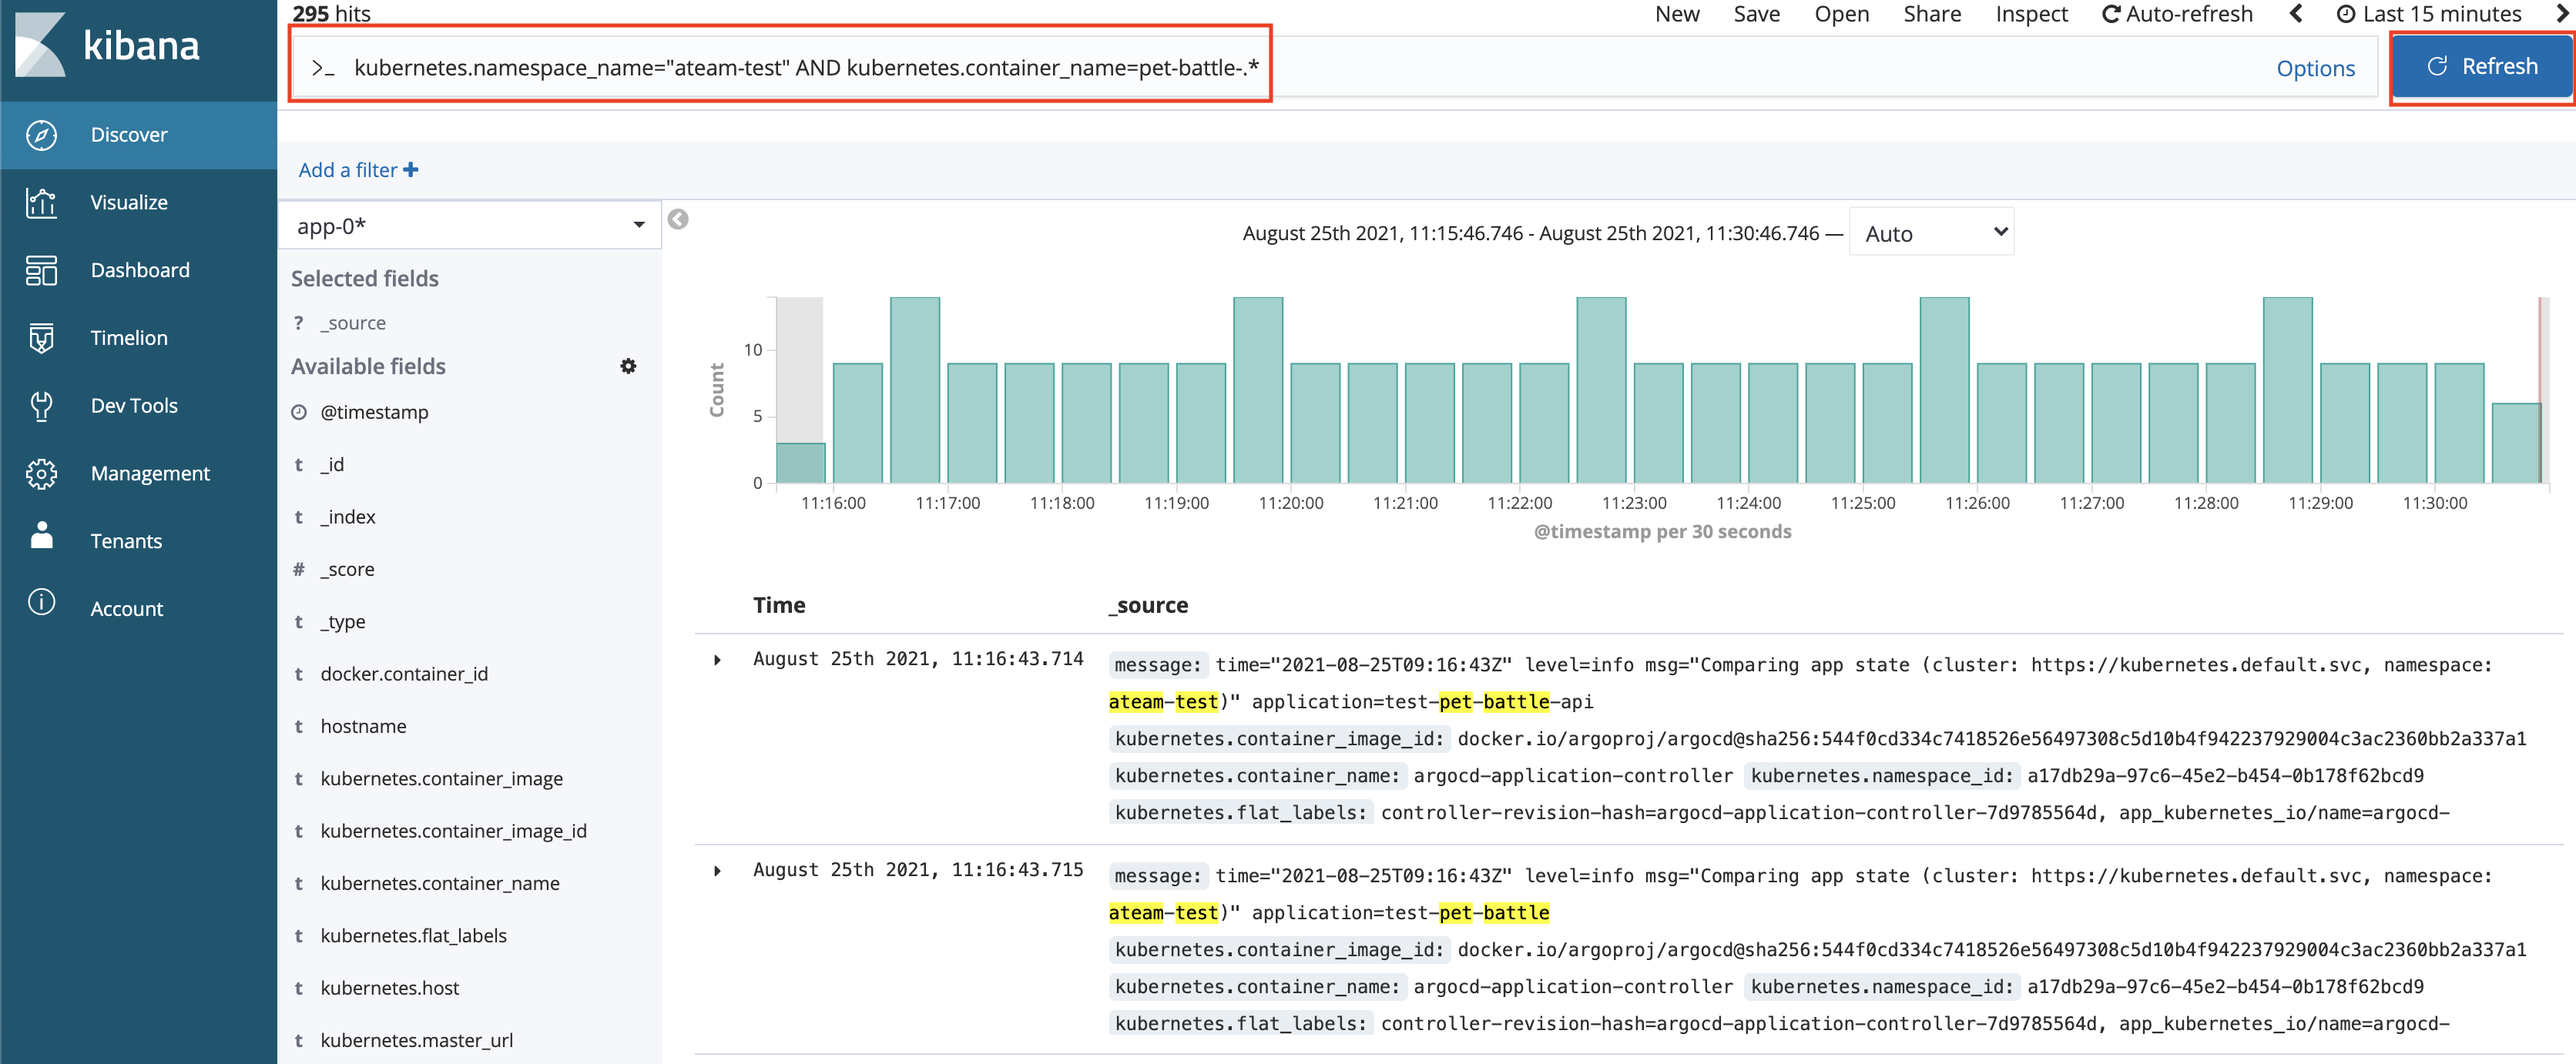
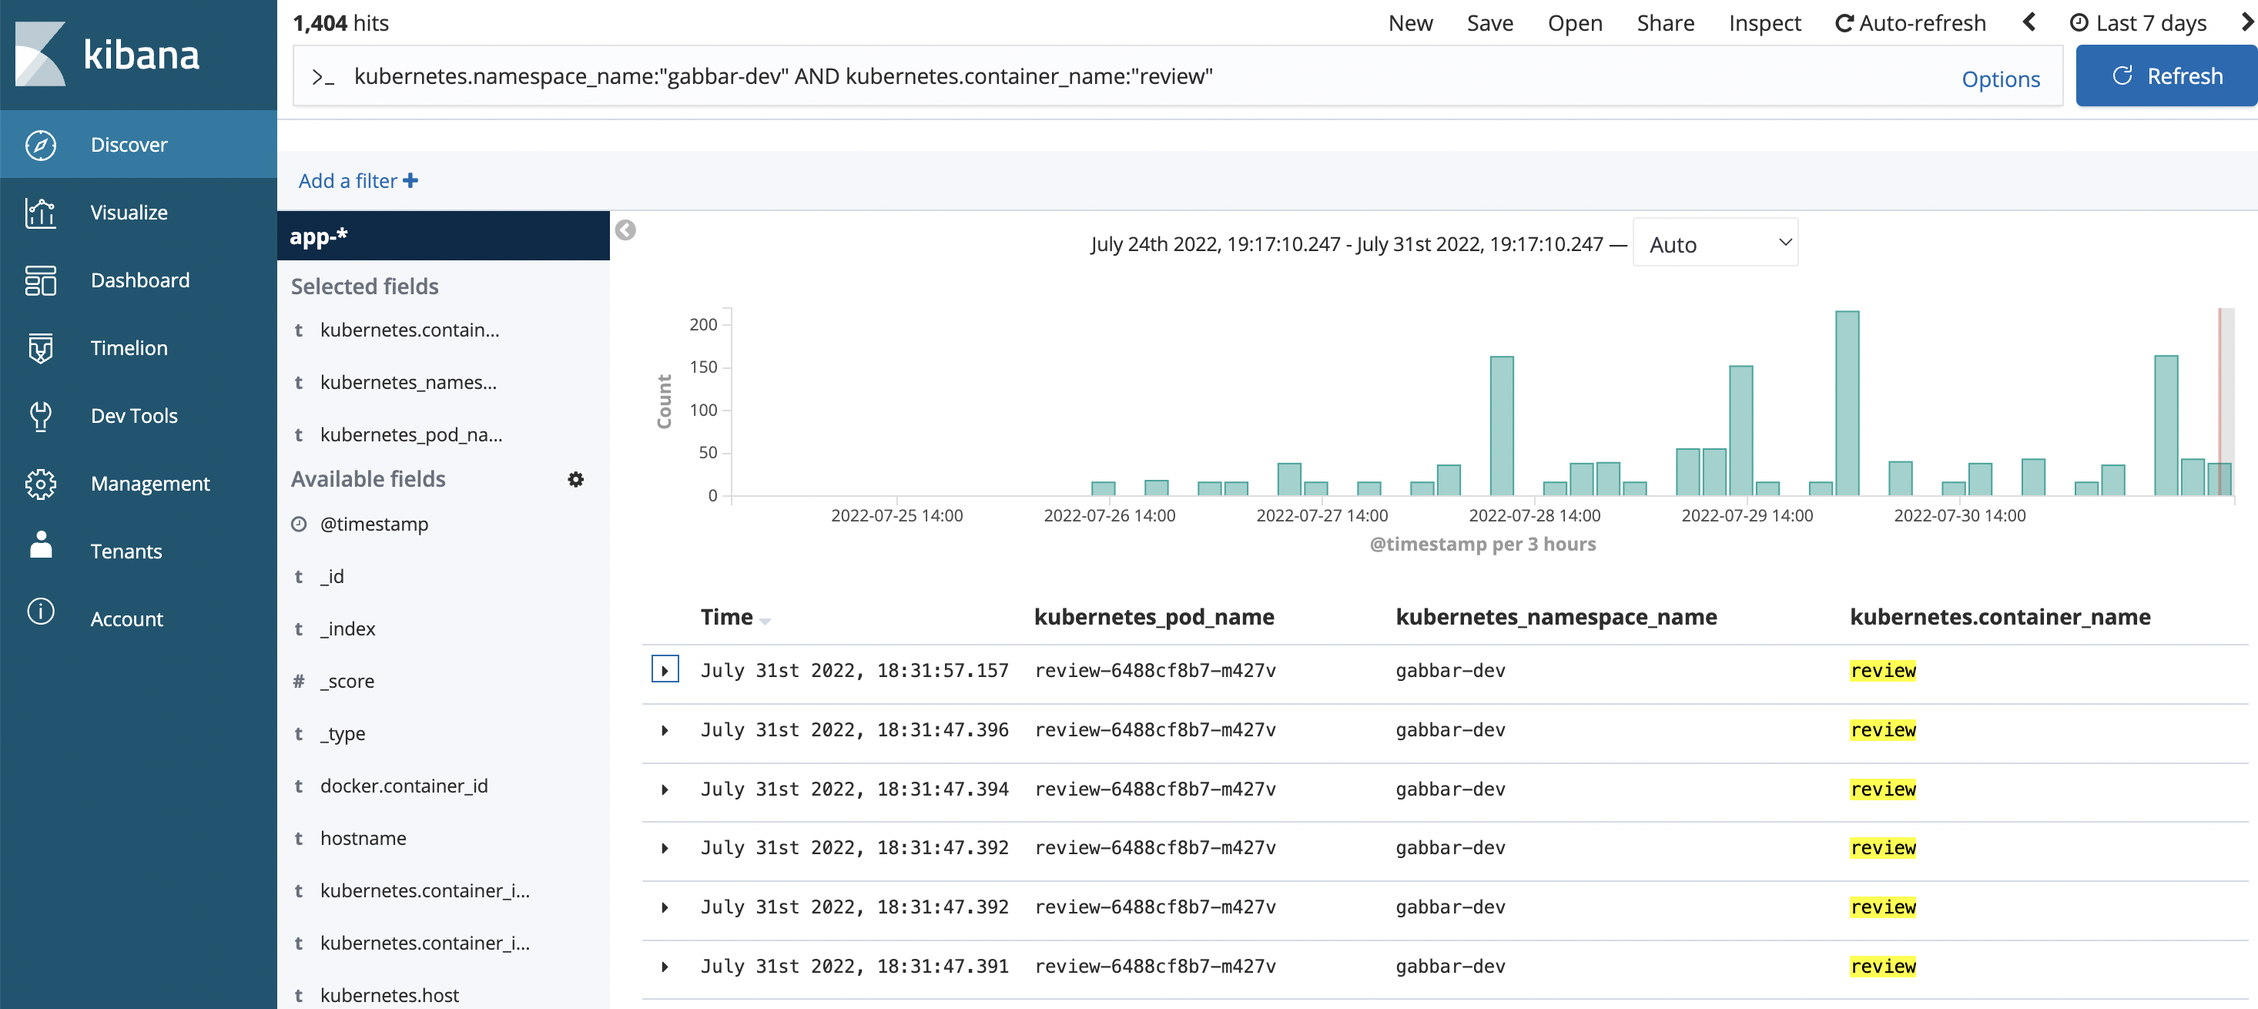
Update logging section

diff --git a/docs/4-return-of-the-monitoring/3-logging.md b/docs/4-return-of-the-monitoring/3-logging.md
@@ -1,23 +1,23 @@
 ## Aggregated Logging
 
-> OpenShift's built in logging .... Something something installed operator before hand. Very memory intensive, logging can be deployed to the infra plane though...
+> SAAP's built in logging .... Something something installed operator before hand. Very memory intensive, logging is deployed to the infra nodes
 
 1. Observe logs from any given container:
 
     ```bash
-    oc project ${TEAM_NAME}-test
-    oc logs `oc get po -l app.kubernetes.io/component=mongodb -o name -n ${TEAM_NAME}-test` --since 10m
+    oc project ${TENANT_NAME}-dev
+    oc logs `oc get po -l app.kubernetes.io/component=mongodb -o name -n ${TENANT_NAME}-dev` --since 10m
     ```
 
     By default, these logs are not stored in a database, but there are a number of reasons to store them (ie troubleshooting, legal obligations..)
 
-2. OpenShift magic provides a great way to collect logs across services, anything that's pumped to `STDOUT` or `STDERR` is collected by FluentD and added to Elastic Search. This makes indexing and querrying logs very easy. Kibana is added on top for easy visualisation of the data. Let's take a look at Kibana now.
+2. SAAP magic provides a great way to collect logs across services, anything that's pumped to `STDOUT` or `STDERR` is collected by FluentD and added to Elastic Search. This makes indexing and querrying logs very easy. Kibana is added on top for easy visualisation of the data. Let's take a look at Kibana now. Back to forecastle
 
-    ```bash
-    https://kibana-openshift-logging.<CLUSTER_DOMAIN>
-    ```
+    ![forecastle-kibana](./images/forecastle-kibana.png)
 
 3. Login using your standard credentials. On first login you'll need to `Allow selected permissions` for OpenShift to pull your permissions.
+
+    ![kibana-authorize-access](./images/kibana-authorize-access.png)
 
 4. Once logged in, you'll be prompted to create an `index` to search on. This is beacause there are many data sets in elastic search, so you must choose the ones you would like to search on. We'll just search on the application logs as opposted to the platform logs in this exercise. Create an index pattern of `app-*` to search across all application logs in all namespaces.
 
@@ -32,9 +32,9 @@
     ![kibana-discover](./images/kibana-discover.png)
 
 7. Let's filter the information, look for the logs specifically for pet-battle apps running in the test nameaspace by adding this to the query bar:
-`kubernetes.namespace_name="<TEAM_NAME>-test" AND kubernetes.container_name=pet-battle-.*`
+`kubernetes.namespace_name:"<TENANT_NAME>-dev" AND kubernetes.container_name:"review"`
 
-    ![kibana-example-query](./images/kibana-example-query.png)
+    ![kibana-example-query](./images/kibana-example-query-2.png)
 
 8. Container logs are ephemeral, so once they die you'd loose them unless they're aggregated and stored somewhere. Let's generate some messages and query them from the UI in Kibana. Connect to pod via rsh and generate logs.
 
